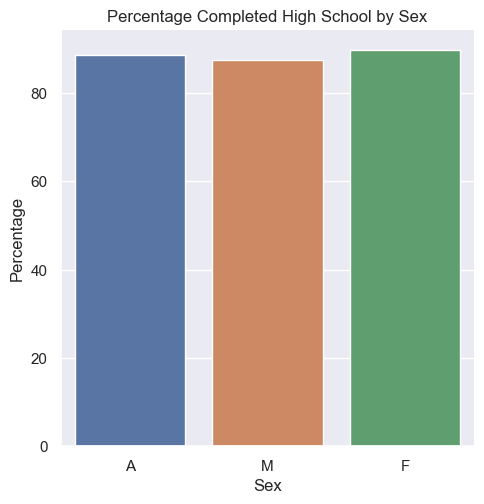
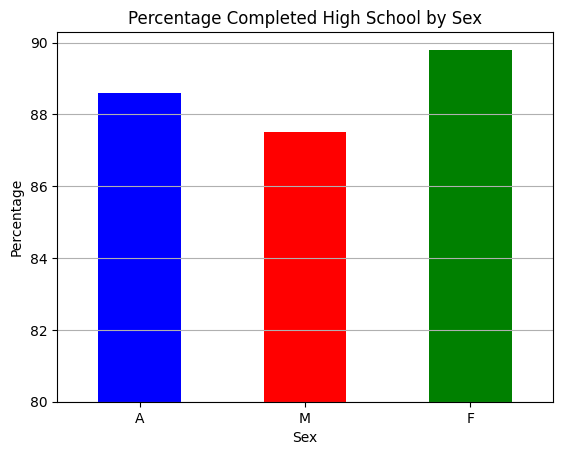
No Seaborn.

diff --git a/book_source/homework-assignments/hw4.md b/book_source/homework-assignments/hw4.md
@@ -117,15 +117,28 @@ associate's 38.757143
 ````
 
 ## Plotting Methods
-You will use `Seaborn` to create three plots. You will implement three methods: `line_plot_bachelors`, `bar_chart_high_school`, `plot_hispanic_min_degree`.
+You will **NOT** use `Seaborn` to create your plots. You will use matplotlib.pyplot only when you implement the following three methods: `line_plot_bachelors`, `bar_chart_high_school`, `plot_hispanic_min_degree`.
 
-```{admonition} Use Seaborn
+```{admonition} NO Seaborn
 :class: warning
-For `line_plot_bachelors` and `bar_chart_high_school`, be sure to use the `seaborn` functions.  
-Use `catplot()` and `relplot()`.  
-Do **NOT** use `barplot()` or `lineplot()`.   
+For all three plots (`line_plot_bachelors`, `bar_chart_high_school`, `plot_hispanic_min_degree`) there is NO `seaborn` allowed.  
+Use the following API:  
+* `df.plot()`  
+* `series.plot()`  
+* `plt.grid()`  
+* `plt.legend(...)`  
+* `plt.legend().set_visible(...)`  
+* `plt.xticks(ticks=...)`  
+Do **NOT** use other methods of plotting.  
 
 This is to assure that the image comparison tests can work.  
+```
+```{admonition} ChatGPT Usage Allowed
+In this Homework, I'm asking you to build some specific plots. This can be difficult to do without some help with the API. Go ahead and use the internet to help out. Figure it out with AI.   
+  
+**IMPORTANT**: Understand the code. You will be expected to replicate this kind of code on the Exam.   
+  
+**IMPORTANT**: Do not copy from a friend. This is an exercise in looking things up and getting help from the internet. This is NOT an exercise in how to plagiarize off of a fellow student!  
 ```
 ````{tab-set}
 ```{tab-item} Plot 1
@@ -141,20 +154,21 @@ plt.savefig('line_plot_bachelors.png', bbox_inches='tight')
 ```{tab-item} Plot 2
 <i class="fas fa-pen-square fa-fw"></i> **Write** a function `bar_chart_high_school` that takes the `data` and plots a bar chart comparing the total percentages of `Sex` `F`, `M`, and `A` with `high school` `Min degree` in the `Year` `2009`. Label the x-axis **Sex**, the y-axis **Percentage**, and title the plot **Percentage Completed High School by Sex**.  
 
+> Hint: When you plot using `df.plot()`, use the named argment `color`. Set the colors using the string contants, `'blue', 'red', 'green'`.  
+
 Your plot should look like this:  
 ![Percentage completed High School by Sex](../_static/hw4_bar_chart_high_school.png)
 
-> Ask yourself: Is this visualization an effective one? You will consider this in last section of the assignment asking you to reflect on the work we did for this assignment.  
+> Ask yourself: Is this visualization a fair and effective plot? You will need to answer this in the `hw4-writeup.md`.  
 
 Use the following line of code to save the plot:
 ```python
 plt.savefig('bar_chart_high_school.png', bbox_inches='tight')
 ```
 ```{tab-item} Plot 3
-<i class="fas fa-pen-square fa-fw"></i> **Write** a function `plot_hispanic_min_degree` that takes the `data` and plots how the percentage of `Hispanic` people with degrees have changed between 1990–2010 (inclusive) for `high school` and `bachelor's` `Min degree`. Choose a plot type for this problem and prepare to explain your decision-making process in the writeup. Label the axes and title the plot appropriately.  
+<i class="fas fa-pen-square fa-fw"></i> **Write** a function `plot_hispanic_min_degree` that takes the `data` and plots how the percentage of `Hispanic` people with degrees have changed between 1990–2010 (inclusive) for `high school` and `bachelor's` `Min degree`. Create a plot that matches the plot shown below.   
 
-> Hint: Remember that your plot should be readable. You might find the function `plt.xticks()` helpful!  
-
+![Hispanic Plot](../_static/hw4_plot_hispanic_min_degree.png)  
 Use the following line of code to save the plot:
 ```python
 plt.savefig('plot_hispanic_min_degree.png', bbox_inches='tight')
@@ -175,25 +189,22 @@ The automated tests only check that the function runs without causing an error. 
 This education dataset is a time series. When working with time series, it is common to use the last rows as the test set rather than random sampling since the goal is to design a model that predicts the future. But by randomly sampling to generate the test set, we are assessing the model on its ability to predict the past! Even though random sampling is not necessarily appropriate here, we ask you to do it anyways because it’s the most common sampling method.
 ```
 
+## Markdown Writeup
+You are required to answer a few questions in the file `hw4-writeup.md` file. Furthermore, you are **required** to use some markdown that structures your answers nicely.  
+
+Markdown (which uses the file extension, `md`) is a relatively simple text formatting language used in many places (Wikis, Replit Instructions, Jupyter Notebooks). Markdown offers a natural-looking way to define headings, lists, and links using special characters like #.  
+
+For full points in your write-up, you **MUST** format with Markdown. Here is a [Markdown reference](https://www.markdownguide.org/basic-syntax/).  Be sure to included multiple forms of formatting such as: `_italics_, **bold**, > block quotes, * bullets`.  
 
 ## Code Quality
-Assessment submissions should pass these checks: `flake8`, and <a href="https://courses.cs.washington.edu/courses/cse163/22sp/resources/code_quality/" target="_blank">code quality guidelines</a>. The code quality guidelines are very thorough. For this assessment, the most relevant rules can be found in these sections, with the **bolded** one being new from the last homework:  
-
-* <a href="https://courses.cs.washington.edu/courses/cse163/22sp/resources/code_quality/#naming-conventions" target="_blank">Naming</a>  
-* <a href="https://courses.cs.washington.edu/courses/cse163/22sp/resources/code_quality/#documentation" target="_blank">Documentation</a>   
-* <a href="https://courses.cs.washington.edu/courses/cse163/22sp/resources/code_quality/#efficiency-and-redundancy" target="_blank">Efficiency and Redundancy</a>  
-    * Boolean Zen  
-    * Loop Zen  
-    * Factoring   
-    * Unnecessary Cases
-    * **Avoid Looping with Pandas**
+Assessment submissions should pass these checks: `flake8`, and <a href="https://courses.cs.washington.edu/courses/cse163/22sp/resources/code_quality/" target="_blank">code quality guidelines</a>. The code quality guidelines are very thorough. 
 
 ```{admonition} Reminder
 :class: important
 Make sure to provide a descriptive comments in doc-string format.
 ```  
 ## Rubric
-Rubric information can be found in the instruction in the Replit project.   
+Rubric information can be found in the instructions in the Replit project.   
 
 ## Challenge Question
 
